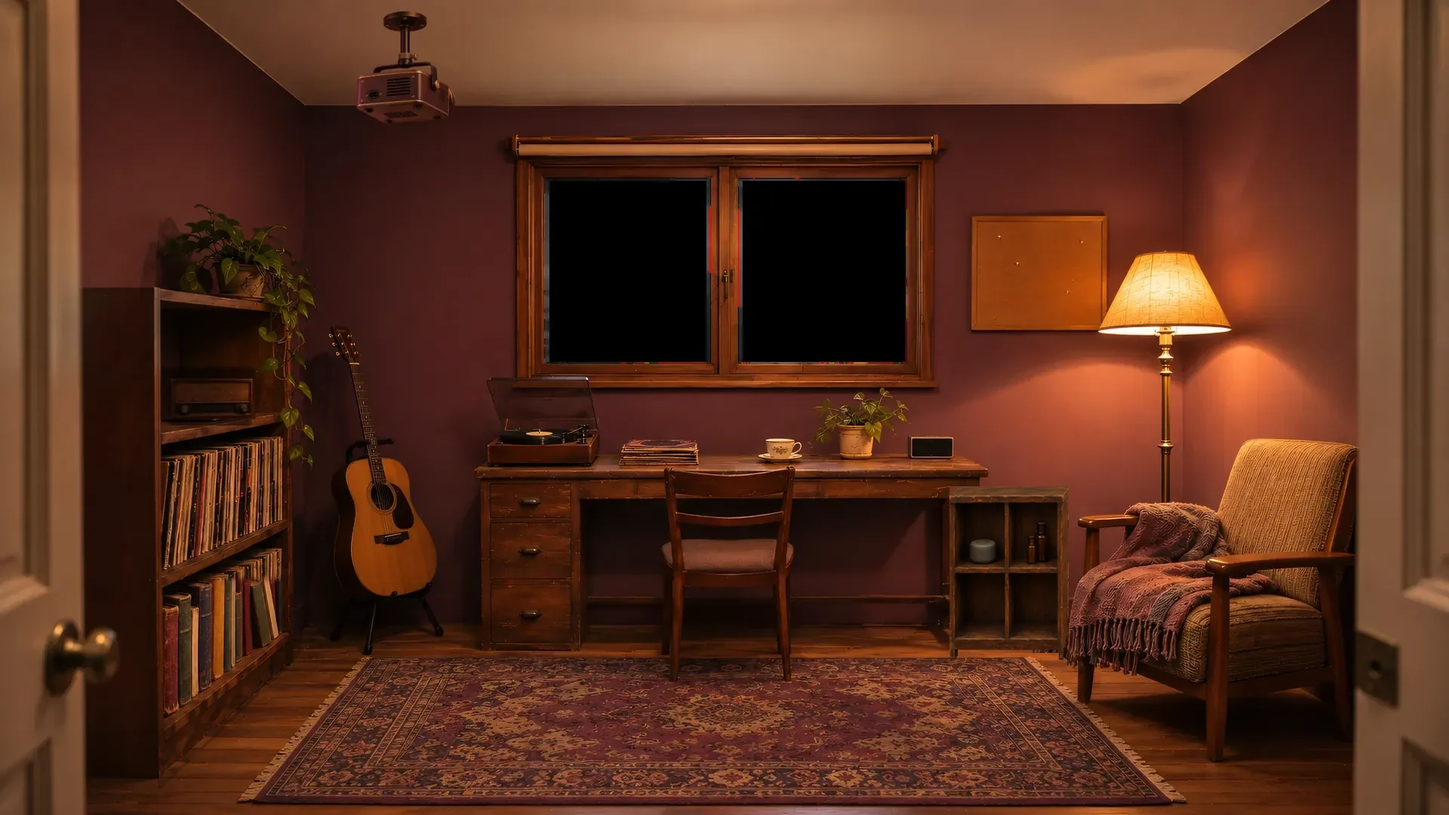
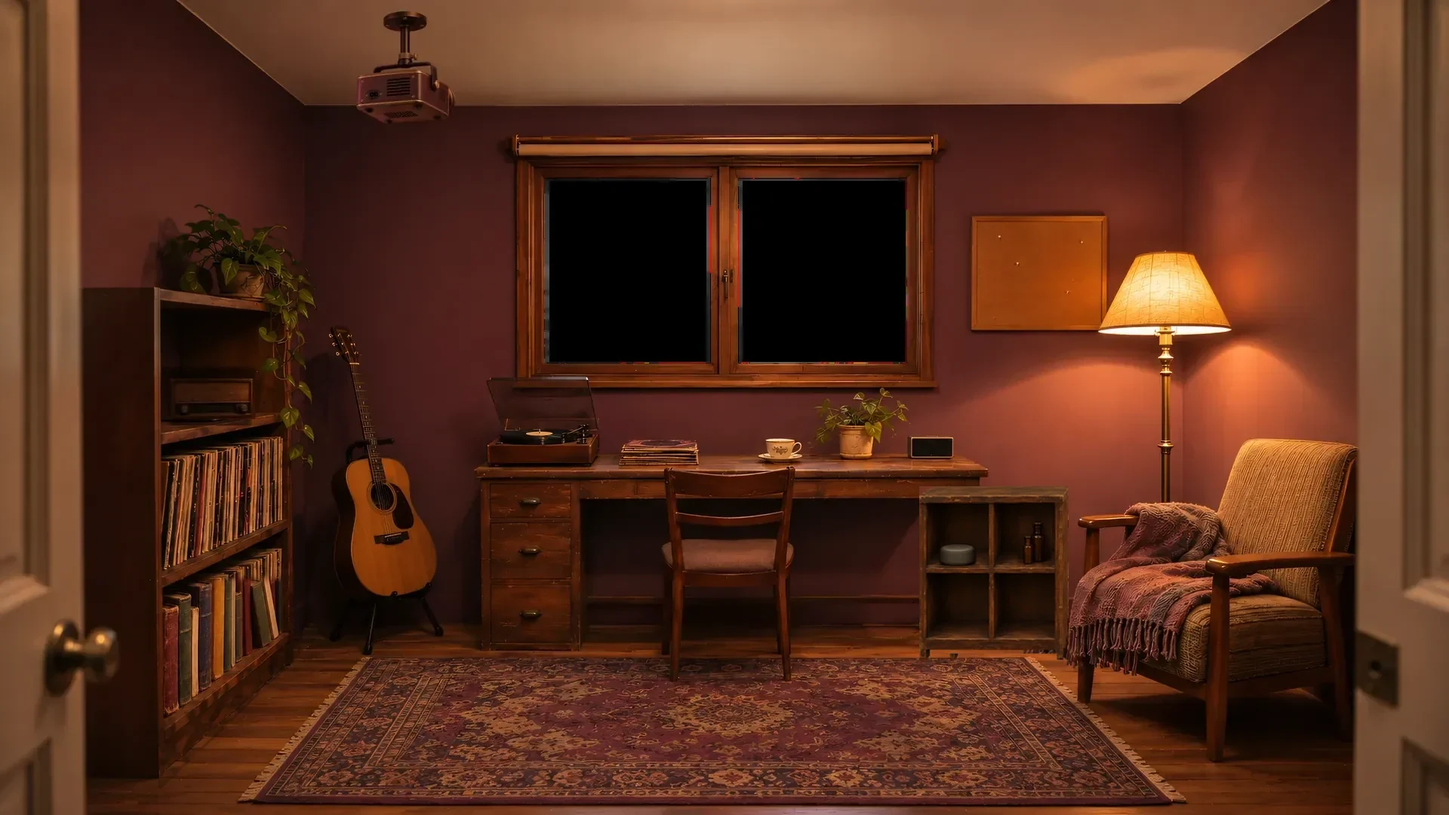
창문·백색소음기·창밖 사진 손보기
- 창문: 열린 창 그림을 덧씌우던 방식을 빼고, 닫힌 그림에서 잘라 낸 오른쪽 창짝 전체(가운데 기둥·윗/아랫막대·오른쪽 기둥)가 한 덩어리로 왼쪽으로 밀려 왼쪽 창짝과 겹치게. 열리면 왼쪽 창짝 가운데 기둥(손잡이 없음)이 제 폭으로 남고, 빈 자리는 창틀 홈 그늘
- 백색소음기: Dohm 실제 크기(지름 14.2cm·높이 8.9cm, 책상 높이 75cm 기준 환산) 비율로 다시 그림. 수납장은 가로로 1.25배 넓혀 칸마다 여유, 약병은 늘리지 않음. 누름 영역도 새 자리로
- 창밖: 로드뷰가 있는 한국 주소는 Mapillary 사진(블랙박스·차 안 사진이 섞이던 것)을 빼고 둘레 로드뷰 여러 곳을 넘겨 보게. 주소·건물은 450m 안 사진만, 도시 이름일 때만 넓게

시험: PC 폭에서 열고 닫는 과정 시간별 촬영, 세 가지 밝기, 수납장·누름 영역 위치, 가짜 카카오 응답으로 로드뷰 5곳 넘기기. 실제 휴대폰·실제 카카오 응답은 NOT_RUN.

Claude-Session: https://claude.ai/code/session_01ESa7RAtP45d2kGoA3RKiBP

Changed region(s): [[0.625, 0.58, 0.7188, 0.8242]]

diff --git a/index.html b/index.html
@@ -8,7 +8,7 @@
 <link rel="canonical" href="https://bora-hp.web.app/">
 <meta property="og:type" content="website"><meta property="og:site_name" content="보라다방"><meta property="og:locale" content="ko_KR">
 <meta property="og:title" content="보라다방 — 어른아이의 작은 밤 다방"><meta property="og:description" content="비 오는 창가, 오래된 노래, 잠들기 전의 소리. 어른아이의 작은 다방에 들러요.">
-<meta property="og:url" content="https://bora-hp.web.app/"><meta property="og:image" content="https://bora-hp.web.app/img/b_room_on.webp?v=20261123">
+<meta property="og:url" content="https://bora-hp.web.app/"><meta property="og:image" content="https://bora-hp.web.app/img/b_room_on.webp?v=20261123b">
 <link rel="alternate" type="application/rss+xml" title="어른아이의 노트" href="rss.xml">
 <link rel="manifest" href="manifest.webmanifest"><link rel="icon" type="image/png" sizes="32x32" href="img/icon/icon-32.png"><link rel="apple-touch-icon" href="img/icon/icon-180.png"><meta name="theme-color" content="#0c0910"><link rel="apple-touch-startup-image" media="(device-width: 440px) and (device-height: 956px) and (-webkit-device-pixel-ratio: 3) and (orientation: portrait)" href="img/splash/s-1320x2868.jpg"><link rel="apple-touch-startup-image" media="(device-width: 430px) and (device-height: 932px) and (-webkit-device-pixel-ratio: 3) and (orientation: portrait)" href="img/splash/s-1290x2796.jpg"><link rel="apple-touch-startup-image" media="(device-width: 402px) and (device-height: 874px) and (-webkit-device-pixel-ratio: 3) and (orientation: portrait)" href="img/splash/s-1206x2622.jpg"><link rel="apple-touch-startup-image" media="(device-width: 393px) and (device-height: 852px) and (-webkit-device-pixel-ratio: 3) and (orientation: portrait)" href="img/splash/s-1179x2556.jpg"><link rel="apple-touch-startup-image" media="(device-width: 428px) and (device-height: 926px) and (-webkit-device-pixel-ratio: 3) and (orientation: portrait)" href="img/splash/s-1284x2778.jpg"><link rel="apple-touch-startup-image" media="(device-width: 390px) and (device-height: 844px) and (-webkit-device-pixel-ratio: 3) and (orientation: portrait)" href="img/splash/s-1170x2532.jpg"><link rel="apple-touch-startup-image" media="(device-width: 375px) and (device-height: 812px) and (-webkit-device-pixel-ratio: 3) and (orientation: portrait)" href="img/splash/s-1125x2436.jpg"><link rel="apple-touch-startup-image" media="(device-width: 414px) and (device-height: 896px) and (-webkit-device-pixel-ratio: 3) and (orientation: portrait)" href="img/splash/s-1242x2688.jpg"><link rel="apple-touch-startup-image" media="(device-width: 414px) and (device-height: 896px) and (-webkit-device-pixel-ratio: 2) and (orientation: portrait)" href="img/splash/s-828x1792.jpg"><link rel="apple-touch-startup-image" media="(device-width: 375px) and (device-height: 667px) and (-webkit-device-pixel-ratio: 2) and (orientation: portrait)" href="img/splash/s-750x1334.jpg"><meta name="apple-mobile-web-app-capable" content="yes"><meta name="mobile-web-app-capable" content="yes"><meta name="apple-mobile-web-app-title" content="보라다방"><meta name="apple-mobile-web-app-status-bar-style" content="black-translucent">
 <link rel="stylesheet" href="https://fonts.googleapis.com/css2?family=Cormorant+Garamond:ital,wght@1,500&family=Noto+Serif+KR:wght@300;400;500&display=swap">
@@ -273,9 +273,9 @@ body:has(#npBox.on) .hintline,body:has(.nowplaying.on) .hintline,body:has(#npR:n
 #fcPill[hidden]{display:none}#fcPill{font-variant-numeric:tabular-nums;letter-spacing:.08em}#fcPill.brk{color:#bfe0b6}.fcbig{font:300 clamp(44px,13vw,72px)/1 var(--serif,serif);text-align:center;font-variant-numeric:tabular-nums;margin:14px 0 4px;color:var(--ink)}.fcst{text-align:center;display:block;margin-bottom:12px}.fcdots{display:flex;gap:8px;justify-content:center;margin:0 0 14px}.fcdots i{width:9px;height:9px;border-radius:50%;border:1px solid var(--accent);opacity:.7}.fcdots i.on{background:var(--accent);opacity:1}
 .panel .cred li{display:block;line-height:1.6;font-size:13.5px;padding:11px 0}.panel .cred li::before{content:none}.cred small{display:block;opacity:.7;margin-top:3px;font-size:12px}.lnk{background:none;border:0;padding:0;color:inherit;text-decoration:underline;font:inherit;cursor:pointer}
 /* 백색소음기는 책상 오른쪽 작은 책꽂이 윗칸(방 그림에 그려져 있음) — 단추는 그 위에 투명하게, 켜지면 은은한 빛과 바람 결 */
-.wnm{position:absolute;z-index:5;left:67.9%;top:67.6%;width:2.8%;aspect-ratio:1;border-radius:50%;transform:translate(-50%,-50%);padding:0;border:0;background:none;cursor:pointer;min-width:30px}
+.wnm{position:absolute;z-index:5;left:66.07%;top:67.97%;width:2.7%;height:3.12%;border-radius:30%/45%;transform:translate(-50%,-50%);padding:0;border:0;background:none;cursor:pointer;min-width:30px}
 .wnm>svg:first-child{display:none}.wnm::after{content:"";position:absolute;left:50%;top:58%;width:44%;height:22%;transform:translate(-50%,-50%);border-radius:50%;background:radial-gradient(rgba(236,228,255,.55),rgba(236,228,255,0) 70%);opacity:0;transition:opacity .8s;pointer-events:none}.wnm.on::after{opacity:1}
-.supbtl{position:absolute;z-index:5;left:71.6%;top:66.8%;width:2.4%;height:4.2%;transform:translate(-50%,-50%);padding:0;border:0;border-radius:8px;background:none;cursor:pointer;min-width:30px;min-height:34px}.supbtl:focus-visible{outline:1px solid var(--accent);outline-offset:3px}
+.supbtl{position:absolute;z-index:5;left:71.3%;top:66.5%;width:2.4%;height:4.2%;transform:translate(-50%,-50%);padding:0;border:0;border-radius:8px;background:none;cursor:pointer;min-width:30px;min-height:34px}.supbtl:focus-visible{outline:1px solid var(--accent);outline-offset:3px}
 .wnm .wisps{position:absolute;left:5%;bottom:70%;width:90%;overflow:visible;fill:none;stroke:#e8e2f6;stroke-width:1;stroke-linecap:round;pointer-events:none}
 .wnm .wisps path{opacity:0}.wnm.on .wisps path{animation:wnmW 3.6s ease-in-out infinite}.wnm.on .wisps path:nth-child(2){animation-delay:1.2s}.wnm.on .wisps path:nth-child(3){animation-delay:2.4s}
 @keyframes wnmW{0%{opacity:0;transform:translateY(4px)}40%{opacity:.5}100%{opacity:0;transform:translateY(-10px)}}
@@ -863,12 +863,16 @@ body.hasnote .hs[data-p="mailbox"]{display:block!important}
 .winart .wd{clip-path:inset(0 0 100% 0);transition:clip-path 2.8s cubic-bezier(.45,.05,.25,1),opacity 1.2s ease}
 .closed .winart .wd,.cinema .winart .wd{clip-path:inset(0 0 0 0);transition:clip-path 3.2s cubic-bezier(.4,.02,.2,1),opacity 1.2s ease}
 .stage .blind{display:none}
-/* 2026-11-17 창문 열고 닫기: 가운데 기둥(오른쪽 창짝)이 왼쪽으로 밀려 겹친다. 그림 좌표 (599,262)–(634,597) / 1229×819 */
-.winart .wsl{position:absolute;left:48.739%;top:31.990%;width:2.848%;height:40.904%;transition:transform 2.4s cubic-bezier(.45,.05,.25,1)}
-.stage.wopen .winart .wsl{transform:translateX(-885.7%)}
-/* 2026-11-22 열린 창(GPT 그림, 세 가지 밝기): 기둥이 밀려가는 동안 오른쪽 창짝 전체가 겹친 '열린 창' 그림으로 천천히 바뀐다 */
-.winart .wos{position:absolute;inset:0;opacity:0;transition:opacity .9s ease}.stage.wopen .winart .wos{opacity:1;transition:opacity 1.4s ease 1.1s}
-.stage.wopen .winart .wsl{opacity:0!important;transition:transform 2.4s cubic-bezier(.45,.05,.25,1),opacity .6s ease 2.1s}
+/* 2026-11-23 창문 열고 닫기: 오른쪽 창짝 전체(가운데 기둥·윗막대·아랫막대·오른쪽 기둥)를 닫힌 그림에서 그대로 잘라 한 덩어리로 왼쪽으로 민다.
+   그림 좌표 (599,255)–(962,606) / 1229×819. 다 열리면 오른쪽 기둥이 가운데에 와서 왼쪽 창짝과 겹친다. 남은 자리는 창틀 홈(그늘)으로 보인다. */
+.winart .wsl{position:absolute;left:48.739%;top:31.136%;width:29.536%;height:42.857%;transition:transform 2.6s cubic-bezier(.45,.05,.25,1)}
+.stage.wopen .winart .wsl{transform:translateX(-89.53%)}
+/* 왼쪽 창짝의 가운데 기둥: 닫혔을 땐 미는 창짝 기둥에 가려 보이지 않고, 열리면 제 폭(손잡이 없는 기둥)으로 남는다 */
+.winart .wst{position:absolute;left:48.739%;top:31.136%;width:3.092%;height:42.857%}
+.winart .wtr{position:absolute;opacity:0;transition:opacity .8s ease;pointer-events:none}
+.winart .wtr.r{left:76.485%;top:31.99%;width:1.79%;height:39.56%;background:linear-gradient(90deg,rgba(20,10,6,.55),rgba(20,10,6,.25))}
+.winart .wtr.b{left:51.83%;top:71.55%;width:26.44%;height:2.44%;background:linear-gradient(180deg,rgba(20,10,6,.55),rgba(20,10,6,.2))}
+.stage.wopen .winart .wtr{opacity:1;transition:opacity 1.2s ease 1.2s}
 .window.wopen #rain{-webkit-mask-image:linear-gradient(90deg,#000 49%,transparent 51%);mask-image:linear-gradient(90deg,#000 49%,transparent 51%)}
 @media (prefers-reduced-motion:reduce){.winart .wsl{transition:none}}
 .beam .winart .wd{filter:brightness(.6) saturate(.7)}
@@ -902,15 +906,15 @@ body.hasnote .hs[data-p="mailbox"]{display:block!important}
     <iframe id="sv" title="창밖 거리" hidden loading="lazy" referrerpolicy="no-referrer-when-downgrade" allowfullscreen></iframe>
     <div class="layer" id="rain" aria-hidden="true"></div>
   </div>
-  <img class="room" id="roomimg" src="img/b_room_on.webp?v=20261123" alt="문을 열고 들여다본 작은 음악방. 책상과 창, 기타와 레코드장, 스탠드 옆 안락의자">
-  <img class="room off" id="roomoff" src="img/b_room_off.webp?v=20261123" alt="">
+  <img class="room" id="roomimg" src="img/b_room_on.webp?v=20261123b" alt="문을 열고 들여다본 작은 음악방. 책상과 창, 기타와 레코드장, 스탠드 옆 안락의자">
+  <img class="room off" id="roomoff" src="img/b_room_off.webp?v=20261123b" alt="">
   <img class="room day" id="roomday" alt="">
   <button class="supbtl" id="supBtl" type="button" hidden aria-label="책꽂이 유리병 · 소리 한 방울"></button>
   <button class="wnm" id="wnm" type="button" aria-label="백색소음기 켜고 끄기 · 길게 누르면 소리 섞기"><svg viewBox="0 0 60 44" aria-hidden="true"><defs><linearGradient id="wnB" x1="0" x2="1"><stop offset="0" stop-color="#7f7c9c"/><stop offset=".35" stop-color="#9895b4"/><stop offset=".7" stop-color="#6b6788"/><stop offset="1" stop-color="#3f3b57"/></linearGradient><linearGradient id="wnT" x1="0" x2="1" y1="0" y2="1"><stop offset="0" stop-color="#b9b6d3"/><stop offset="1" stop-color="#8a87a6"/></linearGradient></defs><ellipse cx="30" cy="41" rx="27" ry="3" fill="#05030a" opacity=".55"/><path d="M5 16L5 37A25 5 0 0 0 55 37L55 16Z" fill="url(#wnB)"/><path d="M5 16L5 24A25 5 0 0 0 55 24L55 16Z" fill="#5d5a78" opacity=".55"/><g stroke="#1a1626" stroke-width="1.6" stroke-linecap="round" opacity=".85"><path d="M10 19.5v4.5M15 20.3v4.7M20 20.8v4.8M25 21v5M30 21.1v5M35 21v5M40 20.8v4.8M45 20.3v4.7M50 19.5v4.5"/></g><ellipse cx="30" cy="16" rx="25" ry="5" fill="url(#wnT)"/><ellipse cx="30" cy="16" rx="9" ry="1.8" fill="#6a6786" opacity=".7"/><path d="M8 13.8A25 5 0 0 1 30 11" stroke="#d9d6f0" stroke-width=".8" fill="none" opacity=".6"/></svg><svg class="wisps" viewBox="0 0 34 26" aria-hidden="true"><path d="M8 22c-2-4 2-6 0-10"/><path d="M17 22c-2-5 3-7 0-12"/><path d="M26 22c-2-4 2-6 0-10"/></svg></button>
   <canvas class="room" id="roomgl" aria-hidden="true"></canvas>
   <div class="record pl" data-z=".95" aria-hidden="true"><i></i></div>
   <div class="steam pl" data-z=".95" aria-hidden="true"><i></i><i></i><i></i></div>
-  <div class="layer pl" data-z="1" data-ax="50" data-ay="33" style="z-index:3;pointer-events:none"><div class="blind" id="blind"><i class="hem"></i></div><div class="winart" aria-hidden="true"><img class="wu w-on" src="img/win/frame_on.webp?v=20261117" alt=""><img class="wu w-off" src="img/win/frame_off.webp?v=20261117" alt=""><img class="wu w-day" src="img/win/frame_day.webp?v=20261117" alt="" loading="lazy"><div class="wos"><img class="w-on" src="img/win/open_on.webp?v=20261122" alt="" loading="lazy"><img class="w-off" src="img/win/open_off.webp?v=20261122" alt="" loading="lazy"><img class="w-day" src="img/win/open_day.webp?v=20261122" alt="" loading="lazy"></div><div class="wsl"><img class="w-on" src="img/win/stile_on.webp?v=20261123" alt=""><img class="w-off" src="img/win/stile_off.webp?v=20261123" alt=""><img class="w-day" src="img/win/stile_day.webp?v=20261123" alt="" loading="lazy"></div><img class="wd w-on" src="img/win/down_on.webp?v=20261114" alt="" loading="lazy"><img class="wd w-off" src="img/win/down_off.webp?v=20261114" alt="" loading="lazy"><img class="wd w-day" src="img/win/down_day.webp?v=20261114" alt="" loading="lazy"></div><div class="proj" id="proj" aria-label="프로젝터 화면"><div class="pv" id="pv"></div></div></div>
+  <div class="layer pl" data-z="1" data-ax="50" data-ay="33" style="z-index:3;pointer-events:none"><div class="blind" id="blind"><i class="hem"></i></div><div class="winart" aria-hidden="true"><img class="wu w-on" src="img/win/frame_on.webp?v=20261117" alt=""><img class="wu w-off" src="img/win/frame_off.webp?v=20261117" alt=""><img class="wu w-day" src="img/win/frame_day.webp?v=20261117" alt="" loading="lazy"><i class="wtr r"></i><i class="wtr b"></i><div class="wst"><img class="w-on" src="img/win/wst_on.webp?v=20261123c" alt=""><img class="w-off" src="img/win/wst_off.webp?v=20261123c" alt=""><img class="w-day" src="img/win/wst_day.webp?v=20261123c" alt="" loading="lazy"></div><div class="wsl"><img class="w-on" src="img/win/sash_on.webp?v=20261123c" alt=""><img class="w-off" src="img/win/sash_off.webp?v=20261123c" alt=""><img class="w-day" src="img/win/sash_day.webp?v=20261123c" alt="" loading="lazy"></div><img class="wd w-on" src="img/win/down_on.webp?v=20261114" alt="" loading="lazy"><img class="wd w-off" src="img/win/down_off.webp?v=20261114" alt="" loading="lazy"><img class="wd w-day" src="img/win/down_day.webp?v=20261114" alt="" loading="lazy"></div><div class="proj" id="proj" aria-label="프로젝터 화면"><div class="pv" id="pv"></div></div></div>
   <canvas class="room" id="roomgl2" aria-hidden="true"></canvas>
   <svg class="beamsvg" viewBox="0 0 2000 1126" preserveAspectRatio="none" aria-hidden="true"><defs><linearGradient id="bg1" x1="0" y1="0" x2="1" y2="1"><stop offset="0" stop-color="#fff" stop-opacity=".7"/><stop offset=".22" stop-color="#e8eeff" stop-opacity=".16"/><stop offset="1" stop-color="#cfe0ff" stop-opacity=".02"/></linearGradient><filter id="bf1" x="-20%" y="-20%" width="140%" height="140%"><feGaussianBlur stdDeviation="11"/></filter><clipPath id="bc1"><polygon id="beamC"/></clipPath></defs><polygon id="beamP" fill="url(#bg1)" filter="url(#bf1)"/><g clip-path="url(#bc1)" id="dust"></g><circle id="beamL" r="5" fill="#fff8e8" filter="url(#bf1)"/></svg>
   <div class="dial pl" data-z=".76"></div>
@@ -1266,7 +1270,7 @@ function applyWindow(){ if(window.__draft) return;
   win.classList.toggle('night',street&&night);
   if(pin&&pin.kv){ sv.hidden=true; sv.removeAttribute('src'); kvEl.hidden=false; win.classList.add('street'); WG.ovl=1; WG.ngT=night?1:0;
     if(shownView!=='kv'){ shownView='kv'; const k=document.createElement('canvas'); k.width=k.height=4; setViewSource(k,1.5,1,[.5,.5]); }
-    const pl=S.place; kvShow(kvEl,pin).then(ok=>{ if(!ok&&S.place===pl&&pl.kvPin){ pl.kvPin=null; pl.pins=(pl.pins||[]).filter(x=>!x.kv); pl.sv=0; LS.set('place6',pl); shownView=null; applyWindow(); } }); }
+    const pl=S.place; kvShow(kvEl,pin).then(ok=>{ if(!ok&&S.place===pl&&pl.kvPin){ pl.kvPin=null; pl.kvMore=[]; pl.pins=(pl.pins||[]).filter(x=>!x.kv); pl.sv=0; LS.set('place6',pl); shownView=null; applyWindow(); } }); }
   else if(pin){ kvEl.hidden=true; sv.hidden=true; sv.removeAttribute('src'); win.classList.remove('street'); WG.ovl=0; WG.ngT=night?1:0; const src=pinSrc(pin);
     if(shownView!==src){ shownView=src; const im=new Image(); im.crossOrigin='anonymous'; im.onload=()=>{ if(shownView===src) setViewSource(im,im.naturalWidth/im.naturalHeight,1.08,[.5,.5]); }; im.src=src; } }
   else if(street){ kvEl.hidden=true; const V=svOf(S.place), J=(S.visit&&S.place.adj)||{h:0,p:0,f:90}; const src=`https://www.google.com/maps/embed/v1/streetview?key=${encodeURIComponent(S.key)}&${V.pano?'pano='+V.pano:`location=${V.lat.toFixed(6)},${V.lon.toFixed(6)}`}&heading=${(V.h+J.h+360)%360}&pitch=${18+J.p}&fov=${J.f}`; if(sv.getAttribute('src')!==src) sv.src=src; sv.hidden=false; win.classList.add('street');
@@ -1349,7 +1353,14 @@ async function kvShow(el,pin){ try{ const M=await kvLoad(); let rv=KVV.get(el); 
     if(el.dataset.pano!==String(pin.kv)){ el.dataset.pano=String(pin.kv); rv.setPanoId(pin.kv,new M.LatLng(pin.lat,pin.lon)); } else rv.relayout&&rv.relayout(); return true;
   }catch(e){ return false; } }
 async function kvPin(pl){ if(!inKR(pl)) return null; try{ const id=await kvNear(pl.lat,pl.lon); kvPin.why=id?'':'둘레 1km 안에 로드뷰 없음'; return id?{kv:id,lat:pl.lat,lon:pl.lon,n:pl.name,src:'kv:'+id,a:'카카오맵 로드뷰',l:'',u:'https://map.kakao.com/link/roadview/'+pl.lat+','+pl.lon}:null; }catch(e){ kvPin.why=kvLoad.why||'카카오 지도 응답 없음'; return null; } }
-function kvFront(pl){ if(pl&&pl.kvPin&&(!pl.pins||pl.pins[0]!==pl.kvPin)) pl.pins=[pl.kvPin].concat((pl.pins||[]).filter(x=>!x.kv)); }   // 로드뷰는 늘 첫 장
+// 로드뷰가 있는 한국 주소: 로드뷰들을 앞에 두고, Mapillary 사진(블랙박스·차 안에서 찍힌 사진이 많고 동네가 낯설게 나옴)은 뺀다
+function kvFront(pl){ if(!pl||!pl.kvPin) return; const K=[pl.kvPin].concat(pl.kvMore||[]), P=pl.pins||[];
+  if(K.every((k,i)=>P[i]===k)&&!P.slice(K.length).some(x=>x.kv||/mapillary\.com/.test(x.u||''))) return;
+  pl.pins=K.concat(P.filter(x=>!x.kv&&!/mapillary\.com/.test(x.u||''))); }
+async function kvMore(pl){ try{ const M=await kvLoad(), rc=new M.RoadviewClient(), cl=Math.max(.3,Math.cos(pl.lat*Math.PI/180)), d=.0008, got=new Set([String(pl.kvPin&&pl.kvPin.kv)]), out=[];
+  for(const [a,b] of [[d,0],[0,d/cl],[-d,0],[0,-d/cl]]){ const la=pl.lat+a, lo=pl.lon+b; const id=await new Promise(ok=>{ try{ rc.getNearestPanoId(new M.LatLng(la,lo),60,ok); }catch(_){ ok(null); } });
+    if(id&&!got.has(String(id))){ got.add(String(id)); out.push({kv:id,lat:la,lon:lo,n:pl.name,src:'kv:'+id,a:'카카오맵 로드뷰',l:'',u:'https://map.kakao.com/link/roadview/'+la+','+lo}); } }
+  return out; }catch(e){ return []; } }
 const gsvUrl=pl=>'https://www.google.com/maps/@?api=1&map_action=pano&viewpoint='+(+pl.lat).toFixed(6)+','+(+pl.lon).toFixed(6);
 // 2026-11-23: 다섯 장에 한 장만 고르던 탓에 사진이 1~4장인 곳은 한 장만 남고 더 넓게 찾지도 않았다 → 장수에 맞춰 고르고, 세 장이 될 때까지 넓혀 간다(3km 남짓까지)
 const MLY='MLY|28940021905666587|6f123c26e51ffb21e04cccff938c19c6';
@@ -1357,7 +1368,7 @@ async function mlyPins(pl){ mlyPins.fail=0; mlyPins.why=''; try{ const cs=(pl.sp
   const per=await Promise.all(cs.map(async c=>{ const out=[], cl=Math.max(.3,Math.cos(c.lat*Math.PI/180));
     const ask=d=>{ const bb=[c.lon-d/cl,c.lat-d,c.lon+d/cl,c.lat+d].map(v=>v.toFixed(6)).join(','); const go=ms=>tfetch(`https://graph.mapillary.com/images?access_token=${encodeURIComponent(MLY)}&fields=id,thumb_2048_url,is_pano,captured_at,creator&bbox=${bb}&limit=40`,null,ms).then(r=>r.ok?r.json():Promise.reject(r.status));
       return go(7000).catch(()=>go(10000)).catch(e=>{ mlyPins.fail=(mlyPins.fail||0)+1; mlyPins.why=String(e&&e.name||e); return {data:[]}; }); };   // 한 번 실패하면 한 번 더(휴대폰 망이 느릴 때)
-    const res=await Promise.all([ask(.0012),ask(.004),ask(.012),ask(.03)]);   // 2026-11-23 도시 이름(예: 고양)으로 찾으면 가운데 점 둘레가 비어 있을 때가 많아 3km 남짓까지   // 가까운 곳 → 동네 → 1km 남짓까지(주소 둘레에 거리 사진이 없을 때)      // 2026-11-17 두 범위를 차례로(최대 24초) 기다리던 것을 동시에(최대 7초)
+    const wide=CITYISH.test(pl.kind||'')||((pl.bb||[]).length===4&&Math.abs(pl.bb[1]-pl.bb[0])>.02); const res=await Promise.all((wide?[.0012,.004,.012,.03]:[.0012,.004]).map(ask));   // 2026-11-23 주소·건물은 450m 안만(멀리서 찍힌 낯선 동네가 섞이던 것), 도시·구 이름일 때만 3km 남짓까지   // 2026-11-23 도시 이름(예: 고양)으로 찾으면 가운데 점 둘레가 비어 있을 때가 많아 3km 남짓까지   // 가까운 곳 → 동네 → 1km 남짓까지(주소 둘레에 거리 사진이 없을 때)      // 2026-11-17 두 범위를 차례로(최대 24초) 기다리던 것을 동시에(최대 7초)
     for(const j of res){
       const ims=(j.data||[]).filter(x=>!x.is_pano&&x.thumb_2048_url).sort((a,b)=>(b.captured_at||0)-(a.captured_at||0));
       const step=Math.max(1,Math.floor(ims.length/4)); let k=0; for(const x of ims){ if(seen.has(x.id)) continue; if(k++%step) continue; seen.add(x.id); out.push({n:c.n||pl.name,src:x.thumb_2048_url,a:((x.creator&&x.creator.username)||'Mapillary')+' · Mapillary',l:'CC BY-SA 4.0',u:'https://www.mapillary.com/app/?pKey='+x.id}); if(out.length>=3) break; }
@@ -1724,7 +1735,7 @@ function openPlace(){
     window.__undoDraft=()=>{ window.__undoDraft=null; if(!window.__draft) return; window.__draft=false; S.place=snap.p; S.visit=snap.v; S.w=snap.w; LS.set('place6',S.place); LS.set('visit',S.visit); ids.forEach((i,k)=>{ if($(i)) $(i).textContent=tx[k]; }); applyWindow(); if(S.radio) radioTune(); }; };
   const go=async q=>{ if(q) draftOn(); svBusy=true; svBar(); try{ await go0(q); } finally { svBusy=false; svBar(); } };
   const early=()=>{ if(svBusy&&nPin(S.place)>=1){ svBusy=false; pend=null; svBar(); } };   // 사진이 두 장 모이면 나머지를 기다리지 않고 바로 넘겨 볼 수 있게
-  const go0=async q=>{ if(q&&await findPlace(q,$('pOut'))){ padj={h:0,p:0,f:90}; { const pl=S.place; kvPin(pl).then(kp=>{ if(!kp||S.place!==pl) return; pl.kvPin=kp; kvFront(pl); pl.sv=0; pend=0; LS.set('place6',pl); applyWindow(); svBar(); early(); const o=$('pOut'); if(o&&!svBusy) o.textContent=`창밖을 ${pl.name}(으)로 바꿨어요 · 로드뷰`+(nPin(pl)>1?` + 사진 ${nPin(pl)-1}장`:''); }); } let pins=await pinsFor(q); if(!pins.length){ const ad=S.place.addr||{}; for(const k of ['city_district','borough','suburb','city','county','town','municipality','province','state']){ const v=ad[k]; if(!v) continue; const r2=await pinsFor(v); if(r2.length){ pins=r2.map(x=>({...x,near:v})); break; } } } const city=CITYISH.test(S.place.kind||'')||S.place.kind===''; if(!pins.length&&!city) pins=await wikiPins(S.place.wd,S.place.name); if(!city){ S.place.spots=[{n:S.place.name,lat:S.place.lat,lon:S.place.lon}]; S.place.sv=0; LS.set('place6',S.place); applyWindow(); } if(pins.length){ S.place.pins=pins; S.place.sv=0; LS.set('place6',S.place); applyWindow(); } pend=null; svBar(); early(); if(CITYISH.test(S.place.kind||'')||S.place.kind===''){ $('pOut').textContent='그곳의 이름난 곳들과 사진을 찾는 중…'; const pl0=S.place, have=new Set((pl0.pins||[]).map(x=>x.src)), add=a=>{ if(S.place!==pl0) return; const n0=nPin(pl0), nw=(a||[]).filter(x=>x&&!have.has(x.src)&&(have.add(x.src),true)); if(!nw.length) return;
+  const go0=async q=>{ if(q&&await findPlace(q,$('pOut'))){ padj={h:0,p:0,f:90}; { const pl=S.place; kvPin(pl).then(kp=>{ if(!kp||S.place!==pl) return; pl.kvPin=kp; pl.kvMore=[]; kvFront(pl); pl.sv=0; pend=0; kvMore(pl).then(m=>{ if(!m.length||S.place!==pl) return; pl.kvMore=m; kvFront(pl); LS.set('place6',pl); svBar(); const o=$('pOut'); if(o&&!svBusy) o.textContent=`창밖을 ${pl.name}(으)로 바꿨어요 · 로드뷰 ${1+m.length}곳`; }); LS.set('place6',pl); applyWindow(); svBar(); early(); const o=$('pOut'); if(o&&!svBusy) o.textContent=`창밖을 ${pl.name}(으)로 바꿨어요 · 로드뷰`; }); } let pins=await pinsFor(q); if(!pins.length){ const ad=S.place.addr||{}; for(const k of ['city_district','borough','suburb','city','county','town','municipality','province','state']){ const v=ad[k]; if(!v) continue; const r2=await pinsFor(v); if(r2.length){ pins=r2.map(x=>({...x,near:v})); break; } } } const city=CITYISH.test(S.place.kind||'')||S.place.kind===''; if(!pins.length&&!city) pins=await wikiPins(S.place.wd,S.place.name); if(!city){ S.place.spots=[{n:S.place.name,lat:S.place.lat,lon:S.place.lon}]; S.place.sv=0; LS.set('place6',S.place); applyWindow(); } if(pins.length){ S.place.pins=pins; S.place.sv=0; LS.set('place6',S.place); applyWindow(); } pend=null; svBar(); early(); if(CITYISH.test(S.place.kind||'')||S.place.kind===''){ $('pOut').textContent='그곳의 이름난 곳들과 사진을 찾는 중…'; const pl0=S.place, have=new Set((pl0.pins||[]).map(x=>x.src)), add=a=>{ if(S.place!==pl0) return; const n0=nPin(pl0), nw=(a||[]).filter(x=>x&&!have.has(x.src)&&(have.add(x.src),true)); if(!nw.length) return;
         pl0.pins=(pl0.pins||[]).concat(nw); LS.set('place6',pl0); if(!n0){ pl0.sv=0; applyWindow(); } if(svBusy) early(); else svBar(); };        // 오는 대로 붙인다(보고 있는 사진은 그대로)
       const cwP=wikiPins(pl0.wd,pl0.name).then(add), [cur,more]=await Promise.all([curatedSpots(q,pl0),findSpots(pl0)]), seen=new Set(cur.map(x=>x.n)), sp=cur.concat(more.filter(x=>!seen.has(x.n))).slice(0,16);
       if(S.place!==pl0) return; if(sp.length){ S.place.spots=sp; LS.set('place6',S.place); }
@@ -1733,7 +1744,7 @@ function openPlace(){
     { const pl=S.place, o=$('pOut'), t0=o.textContent; o.textContent=t0+' · 거리 사진 찾는 중…'; const mp=await mlyPins(pl); if(S.place===pl&&mp.length){ const had=new Set((pl.pins||[]).map(x=>x.src)), old=pl.pins||[], onlyNear=old.length&&old.every(x=>x.near), nw=mp.filter(x=>!had.has(x.src));
         if(onlyNear||!old.length){ pl.pins=nw.concat(old); pl.sv=0; pend=0; applyWindow(); } else pl.pins=old.concat(nw);      // 주소에서는 그 거리의 사진이 먼저, 그 지역 대표 사진은 뒤로
         LS.set('place6',pl); svBar(); early(); } const P=pl.pins||[], nr=P.length&&P.every(x=>x.near)?P[0].near:'';
-      o.textContent = pl.kvPin ? `창밖을 ${pl.name}(으)로 바꿨어요 · 로드뷰`+(P.length>1?` + 사진 ${P.length-1}장`:'') : mp.length||P.length>1&&!nr ? `창밖을 ${pl.name}(으)로 바꿨어요 · 사진 ${P.length}장` : nr ? (mlyPins.fail?`거리 사진 서비스가 지금 응답하지 않아서, 잠시 ${nr}의 풍경을 걸었어요. 조금 뒤 다시 '보기'를 눌러 주세요.`:`${pl.name} 둘레 1km 안에 공개된 거리 사진이 없어서, ${nr}의 풍경을 창에 걸었어요.`) : P.length||(pl.spots&&pl.spots.length>1) ? `창밖을 ${pl.name}(으)로 바꿨어요.` : `${pl.name}의 사진을 찾지 못해서 창밖 풍경은 그대로예요. 시간과 날씨만 그곳을 따라가요.`+(inKR(pl)&&kvPin.why?` (로드뷰: ${kvPin.why})`:'')+(mlyPins.fail?' (거리 사진 서비스 응답 없음)':''); }
+      o.textContent = pl.kvPin ? `창밖을 ${pl.name}(으)로 바꿨어요 · 로드뷰 ${1+(pl.kvMore||[]).length}곳` : mp.length||P.length>1&&!nr ? `창밖을 ${pl.name}(으)로 바꿨어요 · 사진 ${P.length}장` : nr ? (mlyPins.fail?`거리 사진 서비스가 지금 응답하지 않아서, 잠시 ${nr}의 풍경을 걸었어요. 조금 뒤 다시 '보기'를 눌러 주세요.`:`${pl.name} 둘레 1km 안에 공개된 거리 사진이 없어서, ${nr}의 풍경을 창에 걸었어요.`) : P.length||(pl.spots&&pl.spots.length>1) ? `창밖을 ${pl.name}(으)로 바꿨어요.` : `${pl.name}의 사진을 찾지 못해서 창밖 풍경은 그대로예요. 시간과 날씨만 그곳을 따라가요.`+(inKR(pl)&&kvPin.why?` (로드뷰: ${kvPin.why})`:'')+(mlyPins.fail?' (거리 사진 서비스 응답 없음)':''); }
     if(false&&S.key&&S.place.spots){ const pl=S.place, o=$('pOut'), t0=o.textContent; o.textContent=t0+' · 사진이 잘 보이는 자리 고르는 중…'; const vs=await resolveViews(pl); if(S.place===pl){ if(vs){ pl.views=vs; pl.sv=0; pend=0; padj={h:0,p:0,f:90}; LS.set('place6',pl); applyWindow(); } o.textContent=t0+(vs?` · 사진 ${vs.length}장`:` · 자리 확인 안 됨 (${window.__svErr||'?'})`); svBar(); } } } };
   svBar();
   $('pGo').onclick=()=>go($('pIn').value.trim());
@@ -2629,7 +2640,7 @@ function drawW(now,mx,my,still){
 const canvas=$('roomgl'), img=$('roomimg'), imgOff=$('roomoff'), cam=$('cam'); let pan=0, pnS=0;
 let dayMix=0,dayTex=false,dayBusy=false,tx=0,ty=0,mx=0,my=0,gl,ready=false,lampMix=1,PX=-9999,PY=-9999,hasPtr=false,flickAt=performance.now()+14000,uz=1,Q=1,qLevel=0,fxOff=false,fpsN=0,fpsT=0,lastNow=0,enterAt=0;
 // 방의 뼈대: 사진 가로 2000 단위, 뒷벽까지 깊이 f. 가구는 제 깊이에 세운 판
-const BM={"W": 2560, "H": 1441, "S": 1.28, "f": 1700.0, "c": [968.0, 512.0], "box": {"tl": [-548.0, -368.0, 1700.0], "tr": [662.0, -368.0, 1700.0], "bl": [-548.0, 365.0, 1700.0], "br": [662.0, 365.0, 1700.0], "ntl": [-548.0, -431.24210526315784, 340.0], "ntr": [662.0, -448.8594285714286, 340.0], "nbl": [-548.0, 447.90758620689655, 340.0], "nbr": [662.0, 426.06666666666666, 340.0]}, "atlas": [2816, 2208], "layers": [{"n": "lamp", "rect": [1915, 425, 2202, 991], "at": [2167, 4], "plane": ["z", 0.93]}, {"n": "guitar", "rect": [561, 550, 804, 1160], "at": [1368, 4], "plane": ["z", 0.962]}, {"n": "desk", "rect": [826, 643, 1761, 1161], "at": [4, 1683], "plane": ["z", 0.952]}, {"n": "chair", "rect": [1157, 820, 1414, 1212], "at": [947, 1683], "plane": ["z", 0.8786]}, {"n": "shelfF", "rect": [276, 338, 584, 1398], "at": [891, 4], "plane": ["x", -520.0]}, {"n": "shelfS", "rect": [123, 497, 276, 1398], "at": [1207, 4], "plane": ["z", 0.6915]}, {"n": "radio", "rect": [294, 668, 448, 754], "at": [1394, 1683], "plane": ["x", -517.0]}, {"n": "cubby", "rect": [1677, 860, 1888, 1167], "at": [1700, 820], "plane": ["z", 0.945]}, {"n": "armchair", "rect": [1874, 758, 2414, 1364], "at": [1619, 4], "plane": ["z", 0.78]}, {"n": "projector", "rect": [630, 20, 804, 220], "at": [1212, 1683], "plane": ["z", 0.75]}, {"n": "doorL", "rect": [-218, -115, 238, 1556], "at": [4, 4], "plane": ["z", 0.5]}, {"n": "doorR", "rect": [2363, -115, 2778, 1556], "at": [468, 4], "plane": ["z", 0.5]}]};
+const BM={"W": 2560, "H": 1441, "S": 1.28, "f": 1700.0, "c": [968.0, 512.0], "box": {"tl": [-548.0, -368.0, 1700.0], "tr": [662.0, -368.0, 1700.0], "bl": [-548.0, 365.0, 1700.0], "br": [662.0, 365.0, 1700.0], "ntl": [-548.0, -431.24210526315784, 340.0], "ntr": [662.0, -448.8594285714286, 340.0], "nbl": [-548.0, 447.90758620689655, 340.0], "nbr": [662.0, 426.06666666666666, 340.0]}, "atlas": [2816, 2208], "layers": [{"n": "lamp", "rect": [1915, 425, 2202, 991], "at": [2167, 4], "plane": ["z", 0.93]}, {"n": "guitar", "rect": [561, 550, 804, 1160], "at": [1368, 4], "plane": ["z", 0.962]}, {"n": "desk", "rect": [826, 643, 1761, 1161], "at": [4, 1683], "plane": ["z", 0.952]}, {"n": "chair", "rect": [1157, 820, 1414, 1212], "at": [947, 1683], "plane": ["z", 0.8786]}, {"n": "shelfF", "rect": [276, 338, 584, 1398], "at": [891, 4], "plane": ["x", -520.0]}, {"n": "shelfS", "rect": [123, 497, 276, 1398], "at": [1207, 4], "plane": ["z", 0.6915]}, {"n": "radio", "rect": [294, 668, 448, 754], "at": [1394, 1683], "plane": ["x", -517.0]}, {"n": "cubby", "rect": [1624, 860, 1888, 1167], "at": [2464, 0], "plane": ["z", 0.945]}, {"n": "armchair", "rect": [1874, 758, 2414, 1364], "at": [1619, 4], "plane": ["z", 0.78]}, {"n": "projector", "rect": [630, 20, 804, 220], "at": [1212, 1683], "plane": ["z", 0.75]}, {"n": "doorL", "rect": [-218, -115, 238, 1556], "at": [4, 4], "plane": ["z", 0.5]}, {"n": "doorR", "rect": [2363, -115, 2778, 1556], "at": [468, 4], "plane": ["z", 0.5]}]};
 const CAM={x:0,y:0,z:0,yaw:0,pitch:0}; let BU={}, NV=0, LQ=[];
 function proj(X,Y,Z){ let x=X-CAM.x,y=Y-CAM.y,z=Z-CAM.z; const cy=Math.cos(CAM.yaw),sy=Math.sin(CAM.yaw); [x,z]=[cy*x-sy*z,sy*x+cy*z]; const cp=Math.cos(CAM.pitch),sp=Math.sin(CAM.pitch); [y,z]=[cp*y-sp*z,sp*y+cp*z];
   return [BM.c[0]+BM.f*x/z, BM.c[1]+BM.f*y/z, z]; }
@@ -2678,8 +2689,8 @@ function sizeGL(){ if(!gl) return; const w=scene.offsetWidth,h=scene.offsetHeigh
   for(const o of GLS){ o.cv.width=Math.max(1,Math.round(w*k)); o.cv.height=Math.max(1,Math.round(h*k)); o.gl.viewport(0,0,o.cv.width,o.cv.height); } }
 function loadDayTex(){ if(dayTex||dayBusy||!gl||!ready) return; dayBusy=true; const ims=[new Image(),new Image()]; let n=0;
   const go=()=>{ if(++n<2) return; use(0); tex(2,ims[0]); use(1); tex(2,ims[1]); use(0); dayTex=true; };
-  ims.forEach((im,i)=>{ im.onload=go; im.onerror=()=>{ dayBusy=false; }; im.src=i?'img/b_atlas_day.webp?v=20261123':'img/b_plate_day.webp?v=20261117'; }); }
-function startGL(){ if(S.lite||gl||!initGL()) return; const srcs=['img/b_plate_on.webp?v=20261117','img/b_plate_off.webp?v=20261117','img/b_atlas_on.webp?v=20261123','img/b_atlas_off.webp?v=20261123'], ims=srcs.map(()=>new Image()); let n=0;
+  ims.forEach((im,i)=>{ im.onload=go; im.onerror=()=>{ dayBusy=false; }; im.src=i?'img/b_atlas_day.webp?v=20261123b':'img/b_plate_day.webp?v=20261117'; }); }
+function startGL(){ if(S.lite||gl||!initGL()) return; const srcs=['img/b_plate_on.webp?v=20261117','img/b_plate_off.webp?v=20261117','img/b_atlas_on.webp?v=20261123b','img/b_atlas_off.webp?v=20261123b'], ims=srcs.map(()=>new Image()); let n=0;
   const go=()=>{ if(++n<4) return; use(0); tex(0,ims[0]); tex(1,ims[1]); use(1); tex(0,ims[2]); tex(1,ims[3]); use(0); ready=true; sizeGL(); if(!S.lite) stage.classList.add('gl'); };
   ims.forEach((im,i)=>{ im.onload=go; im.onerror=()=>{}; im.src=srcs[i]; }); new ResizeObserver(sizeGL).observe(canvas); }
 function drawRoom(now,still,fl){
@@ -2724,7 +2735,7 @@ function frame(now){
   const gx=still?0:Math.max(-1,Math.min(1,tx+Math.sin(idle*.23)*(fine?.18:.3))), gy=still?0:ty+Math.sin(idle*.17+1)*(fine?.10:.26);
   mx+=(gx-mx)*.06; my+=(gy-my)*.06;
   lampMix+=((S.lamp?Math.max(window.SLP||0,1-(window.__lampLv==null?1:window.__lampLv)):1)-lampMix)*.09;
-  { const wd=!!(S.w&&S.w.isDay); if(wd!==stage.classList.contains('isday')){ stage.classList.toggle('isday',wd); const rd=$('roomday'); if(wd&&rd&&!rd.getAttribute('src')) rd.src='img/b_room_day.webp?v=20261123'; }
+  { const wd=!!(S.w&&S.w.isDay); if(wd!==stage.classList.contains('isday')){ stage.classList.toggle('isday',wd); const rd=$('roomday'); if(wd&&rd&&!rd.getAttribute('src')) rd.src='img/b_room_day.webp?v=20261123b'; }
     if(wd) loadDayTex(); dayMix+=((wd&&(dayTex||S.lite||!gl)?1:0)-dayMix)*.02; }
   // 카메라: 문간에서 한 걸음 들어서고, 고개를 따라 몸이 조금씩 움직인다
   const te=enterAt?Math.min(1,(now-enterAt)/3800):0, ee=1-Math.pow(1-te,3); pnS+=(pn-pnS)*.09;
